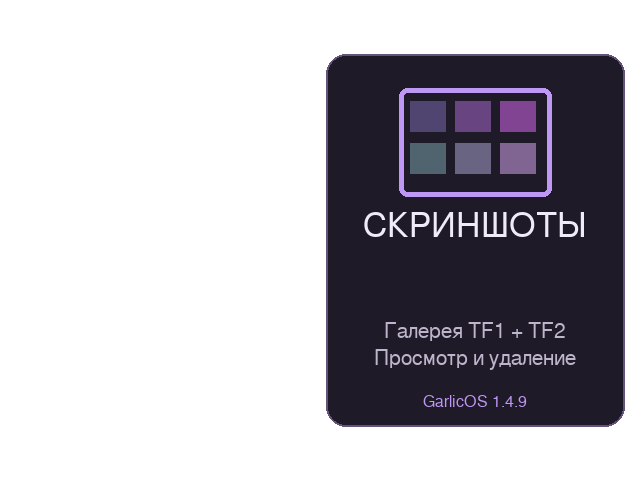
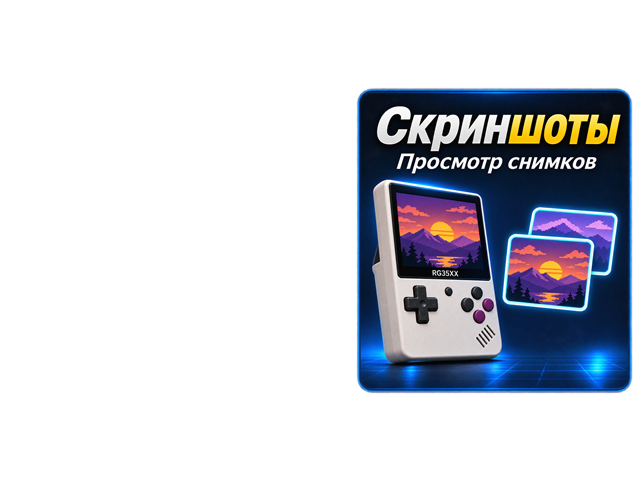
USB Manager и Screenshot Viewer 0.1.3 — Обновлены обложки обоих приложений и верхняя панель интерфейса.

diff --git a/RG35XX-Utilities/package.py b/RG35XX-Utilities/package.py
@@ -43,25 +43,25 @@ System dependencies (not redistributed): SDL 1.2, SDL_image, SDL_ttf, uClibc.
 MTP server (not redistributed): https://github.com/IonAgorria/rg35xx-mtp-server
 The existing MTP installation is required for the MTP checkbox to be applied.
 
-New app-menu PNGs: programmatically drawn for this package; no game art/ROMs.
+New app-menu PNGs: created for these apps using the supplied Toggle previews as style references.
 '''
 write(licenses/'THIRD-PARTY.txt',notice)
 def add(z,p,name):
-    info=zipfile.ZipInfo(name,(2026,11,19,12,0,0));info.create_system=3
+    info=zipfile.ZipInfo(name,(2026,11,20,12,0,0));info.create_system=3
     executable=p.suffix in ['.sh','.so'] or p.name in ['usb-manager','screenshot-viewer']
     info.external_attr=(0o100755 if executable else 0o100644)<<16;info.compress_type=zipfile.ZIP_DEFLATED
     z.writestr(info,p.read_bytes())
 for name,folder in [('USB Manager','USBManager'),('Screenshot Viewer','ScreenshotViewer')]:
     files=[stage/'APPS'/f'{name}.sh',stage/'APPS/Imgs'/f'{name}.png',*sorted((stage/'APPS'/folder).rglob('*')),*sorted(licenses.glob('*'))]
     files=[p for p in files if p.is_file()]
-    filename=folder+'-0.1.2-GarlicOS-1.4.9.zip'
+    filename=folder+'-0.1.3-GarlicOS-1.4.9.zip'
     with zipfile.ZipFile(out/filename,'w') as z:
         for p in files:add(z,p,p.relative_to(stage).as_posix())
         add(z,base/'README_RU.txt','README_RU.txt');add(z,base/'TESTS.txt','TESTS.txt')
         hashes='\n'.join(hashlib.sha256(p.read_bytes()).hexdigest()+'  '+p.relative_to(stage).as_posix() for p in files)+'\n'
         z.writestr('SHA256.txt',hashes)
     print(filename,(out/filename).stat().st_size)
-with zipfile.ZipFile(out/'RG35XX-Utilities-0.1.2-source.zip','w') as z:
+with zipfile.ZipFile(out/'RG35XX-Utilities-0.1.3-source.zip','w') as z:
     for p in sorted((base/'src').glob('*')):add(z,p,'src/'+p.name)
     for p in sorted((base/'tests').glob('*')):
         if p.is_file():add(z,p,'tests/'+p.name)
@@ -71,7 +71,7 @@ with zipfile.ZipFile(out/'RG35XX-Utilities-0.1.2-source.zip','w') as z:
     add(z,fontpath,'resources/FreeSans.ttf');add(z,resource/'j2k.so','resources/j2k.so')
     for p in (stage/'APPS/Imgs').glob('*.png'):add(z,p,'resources/Imgs/'+p.name)
 # Verify final archives, directory layout, LF, hashes, and PNG headers.
-for archive in out.glob('*0.1.2*.zip'):
+for archive in out.glob('*0.1.3*.zip'):
     with zipfile.ZipFile(archive) as z:
         assert z.testzip() is None
         for name in z.namelist():

diff --git a/RG35XX-Utilities/src/ui.c b/RG35XX-Utilities/src/ui.c
@@ -71,9 +71,8 @@ void center(int x,int y,int w,const char *s,TTF_Font *f,SDL_Color c) {
 }
 void page(const char *heading,const char *right) {
     box(0,0,640,480,C_BG_ALT);
-    box(0,0,640,52,C_BAR); text(18,12,heading,title,C_TEXT,470);
+    box(0,0,640,54,C_BAR); text(18,12,heading,title,C_TEXT,470);
     if(right) text(495,20,right,small,C_TEXT,130);
-    box(18,52,604,2,C_BORDER);
 }
 void footer(const char *hint) {
     box(0,445,640,35,C_BAR); text(18,452,hint,small,C_TEXT,604);

diff --git a/README.md b/README.md
@@ -5,5 +5,5 @@
 | Программа | Назначение | Релиз |
 | --- | --- | --- |
 | [System Info RU](System-Info-RU/) | Системная информация и статистика коллекции на обеих картах. | [1.1.0](https://github.com/alex-13021991/Anbernic-RG35XX/releases/tag/system-info-ru-v1.1.0) |
-| [USB Manager](USB-Manager/) | Настраивает MTP, ADB и USB-ввод. | [0.1.2](https://github.com/alex-13021991/Anbernic-RG35XX/releases/tag/usb-manager-v0.1.2) |
-| [Screenshot Viewer](Screenshot-Viewer/) | Просмотр и удаление скриншотов с TF1 и TF2. | [0.1.2](https://github.com/alex-13021991/Anbernic-RG35XX/releases/tag/screenshot-viewer-v0.1.2) |
+| [USB Manager](USB-Manager/) | Настраивает MTP, ADB и USB-ввод. | [0.1.3](https://github.com/alex-13021991/Anbernic-RG35XX/releases/tag/usb-manager-v0.1.3) |
+| [Screenshot Viewer](Screenshot-Viewer/) | Просмотр и удаление скриншотов с TF1 и TF2. | [0.1.3](https://github.com/alex-13021991/Anbernic-RG35XX/releases/tag/screenshot-viewer-v0.1.3) |

diff --git a/Screenshot-Viewer/README.md b/Screenshot-Viewer/README.md
@@ -1,7 +1,7 @@
-# Screenshot Viewer 0.1.2
+# Screenshot Viewer 0.1.3
 
 Просмотр и удаление скриншотов с TF1 и TF2. Для оригинальной RG35XX с GarlicOS 1.4.9.
 
 Скопируйте содержимое папки `APPS` из установочного ZIP в `Roms/APPS` на карте TF1 или TF2. Откройте приложение в меню **Консоли → APPS**.
 
-[Скачать выпуск 0.1.2](https://github.com/alex-13021991/Anbernic-RG35XX/releases/tag/screenshot-viewer-v0.1.2) · [Общая сборка и тесты](../RG35XX-Utilities/) · [Полная инструкция](../RG35XX-Utilities/README_RU.txt)
+[Скачать выпуск 0.1.3](https://github.com/alex-13021991/Anbernic-RG35XX/releases/tag/screenshot-viewer-v0.1.3) · [Общая сборка и тесты](../RG35XX-Utilities/) · [Полная инструкция](../RG35XX-Utilities/README_RU.txt)

diff --git a/USB-Manager/README.md b/USB-Manager/README.md
@@ -1,7 +1,7 @@
-# USB Manager 0.1.2
+# USB Manager 0.1.3
 
 Настраивает MTP, ADB и USB-ввод. Для оригинальной RG35XX с GarlicOS 1.4.9.
 
 Скопируйте содержимое папки `APPS` из установочного ZIP в `Roms/APPS` на карте TF1 или TF2. Откройте приложение в меню **Консоли → APPS**.
 
-[Скачать выпуск 0.1.2](https://github.com/alex-13021991/Anbernic-RG35XX/releases/tag/usb-manager-v0.1.2) · [Общая сборка и тесты](../RG35XX-Utilities/) · [Полная инструкция](../RG35XX-Utilities/README_RU.txt)
+[Скачать выпуск 0.1.3](https://github.com/alex-13021991/Anbernic-RG35XX/releases/tag/usb-manager-v0.1.3) · [Общая сборка и тесты](../RG35XX-Utilities/) · [Полная инструкция](../RG35XX-Utilities/README_RU.txt)

diff --git a/RG35XX-Utilities/BUILD.md b/RG35XX-Utilities/BUILD.md
@@ -1,4 +1,4 @@
-# RG35XX utilities 0.1.2
+# RG35XX utilities 0.1.3
 
 Two C99 applications for original RG35XX, GarlicOS 1.4.9, SDL 1.2.
 The UI is shared source; the installed apps and launchers are independent.
